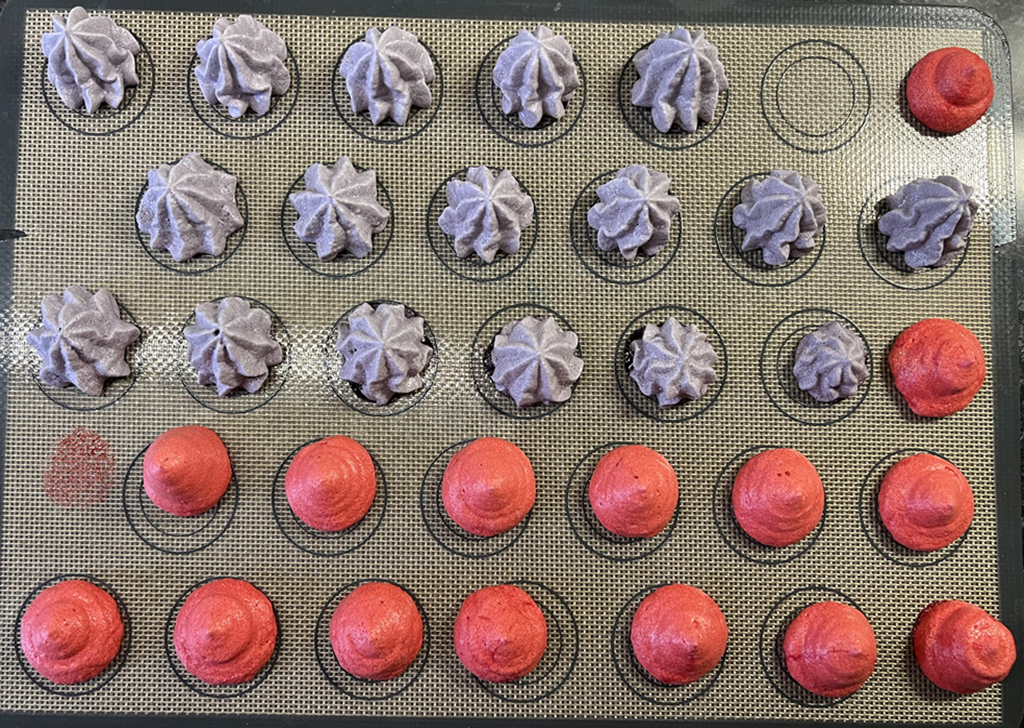
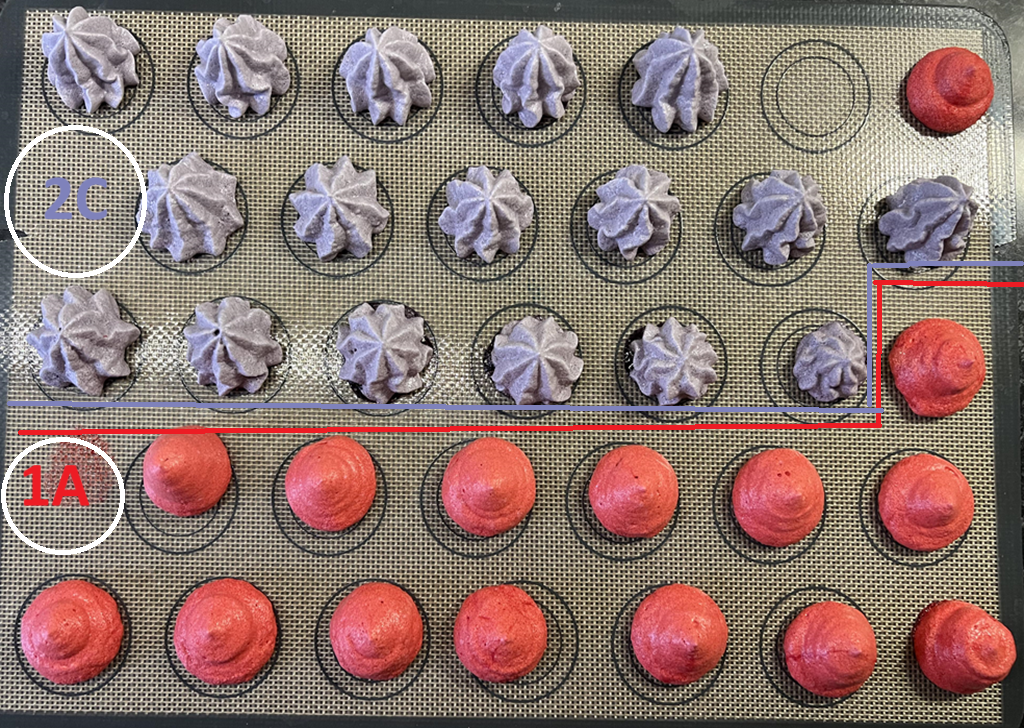
Suspiros, Cookies, Macarrons Components changed + new scss added

diff --git a/src/Components/Sweet_Components/Suspiros.jsx b/src/Components/Sweet_Components/Suspiros.jsx
@@ -1,3 +1,4 @@
+import { Card, CardContent, Link } from "@mui/material";
 import React from "react";
 
 export default function Suspiros() {
@@ -18,10 +19,14 @@ export default function Suspiros() {
                 <li>Corantes em gel ou em pó &#40;opcional&#41;</li>
                 <li>Aromas &#40;opcional&#41;</li>
             </ul>
-            <h2>Preparação</h2>
+            <ul>
+                <li>
+                    <h2>Preparação</h2>
+                </li>
+            </ul>
             <ol>
-                <li>Começar a bater as claras em castelo a uma velocidade baixa até começar a fazer espuma. Adicionar metade do açùcar e continuar a bater na velocidade média.</li>
-                <li>Quando as claras já estiverem, mas ainda "liquidas", adicionar o restante açucar assim como o sumo de limâo.</li>
+                <li>Começar a bater as claras a uma velocidade baixa até começar a fazer espuma. Adicionar metade do açùcar e continuar a bater na velocidade média.</li>
+                <li>Quando as claras já estiverem batidas, mas ainda "líquidas", adicionar o restante açucar assim como o sumo de limâo.</li>
                 <li>Continuar a bater as claras e quando já estiverem firmes adicionar o aroma, se se desejar algum, e continuar a bater até obter o ponto de bico de pássaro.
                     <br />
                     Nota: se se pretender usar 2 aromas ou mais, então bater até as claras ficarem em ponto de bico de pássaro, depois dividir as claras e usar o&#40;s&#41; aroma&#40;s&#41; no passo seguinte &#40;4&#41;.
@@ -38,6 +43,46 @@ export default function Suspiros() {
                 <li>Desligar o forno após os 50min e deixar arrefecer os suspiros dentro do forno desligado.</li>
                 <li>Quando já estiverem frios, colocar os suspiros dentro de uma caixa para que não absorvam humidade</li>
             </ol>
+            <ul>
+                <li>
+                    <h2>Galeria de imagens</h2>
+                </li>
+            </ul>
+            <div className="display-grid-pic">
+                <Card>
+                    <CardContent>
+                        <Link href="./pictures/bicos1.jpeg" rel="noopener noreferrer">
+                            <img className="listPictureComponents" src=".\pictures\bicos1.jpeg" alt="bicos de pasteleiro" />
+                        </Link>
+                        <h2>Bicos 2C e 1A</h2>
+                    </CardContent>
+                </Card>
+                <Card>
+                    <CardContent>
+                        <Link href="./pictures/bicos2.jpeg" rel="noopener noreferrer">
+                            <img className="listPictureComponents" src=".\pictures\bicos2.jpeg" alt="bicos de pasteleiro" />
+                        </Link>
+                        <h2>Bicos D66 e 2F</h2>
+                    </CardContent>
+                </Card>
+                <Card>
+                    <CardContent>
+                        <Link href="./pictures/suspiros1.png" rel="noopener noreferrer">
+                            <img className="listPictureComponents" src=".\pictures\suspiros1.png" alt="suspiros" />
+                        </Link>
+                        <h2>Suspiros 2C e 1A</h2>
+                    </CardContent>
+                </Card>
+                <Card>
+                    <CardContent>
+                        <Link href="./pictures/suspiros2.png" rel="noopener noreferrer">
+                            <img className="listPictureComponents" src=".\pictures\suspiros2.png" alt="suspiros" />
+                        </Link>
+                        <h2>Suspiros D66 e 2F</h2>
+                    </CardContent>
+                </Card>
+            </div>
+
         </div>
     )
 };

diff --git a/src/Components/Sweet_Components/Macarrons.jsx b/src/Components/Sweet_Components/Macarrons.jsx
@@ -3,8 +3,22 @@ import React from "react";
 export default function Macarrons() {
     return (
         <div className="margin-top-32">
-            <h2>Ingredientes</h2>
-            <h2>Preparação</h2>
+            <h1>Receita de macarrons</h1>
+            <ul>
+                <li>
+                    <h2>Ingredientes</h2>
+                </li>
+            </ul>
+            <ul>
+                <li>
+                    <h2>Preparação</h2>
+                </li>
+            </ul>
+            <ul>
+                <li>
+                    <h2>Galeria de imagens</h2>
+                </li>
+            </ul>
         </div>
     )
 };

diff --git a/src/Components/Sweet_Components/Cookies.jsx b/src/Components/Sweet_Components/Cookies.jsx
@@ -3,8 +3,22 @@ import React from "react";
 export default function Cookies() {
     return (
         <div className="margin-top-32">
-            <h2>Ingredientes</h2>
-            <h2>Preparação</h2>
+            <h1>Receita de cookies</h1>
+            <ul>
+                <li>
+                    <h2>Ingredientes</h2>
+                </li>
+            </ul>
+            <ul>
+                <li>
+                    <h2>Preparação</h2>
+                </li>
+            </ul>
+            <ul>
+                <li>
+                    <h2>Galeria de imagens</h2>
+                </li>
+            </ul>
         </div>
     )
 };

diff --git a/src/styles/useful-classes.scss b/src/styles/useful-classes.scss
@@ -4,6 +4,13 @@
     align-items: center;
 }
 
+// MARGINS
+
+.margin-top-32 {
+    margin-top: 32px;
+}
+
+//DISPLAY GRID DENTRO COMPONENTES (SWEET, SALTY, AVTIVITIES)
 .display-grid {
     display: grid;
     grid-template-columns: repeat(8, auto);
@@ -15,6 +22,15 @@
     }
 }
 
-.margin-top-32 {
-    margin-top: 32px;
+//DISPLAY GRID DAS IMAGENS DENTRO COMPONENTES (SUSPIROS, COOKIES, ETC.)
+
+.display-grid-pic {
+    display: grid;
+    grid-template-columns: repeat(8, auto);
+}
+
+@media (max-width: 768px) {
+    .display-grid-pic {
+        grid-template-columns: repeat(3, auto);
+    }
 }

diff --git a/src/styles/theme.scss b/src/styles/theme.scss
@@ -77,6 +77,14 @@ code {
     }
 }
 
+.listPictureComponents {
+    width: 80px;
+    height: 80px;
+    border: 1px solid black;
+    border-radius: 20px;
+    object-fit: cover;
+}
+
 .listLink {
     color: black !important;
     text-decoration: none !important;

diff --git a/src/styles/_card.scss b/src/styles/_card.scss
@@ -4,6 +4,5 @@
 }
 
 .MuiCardContent-root {
-    display: flex;
-    justify-content: center;
+    text-align: center;
 }
